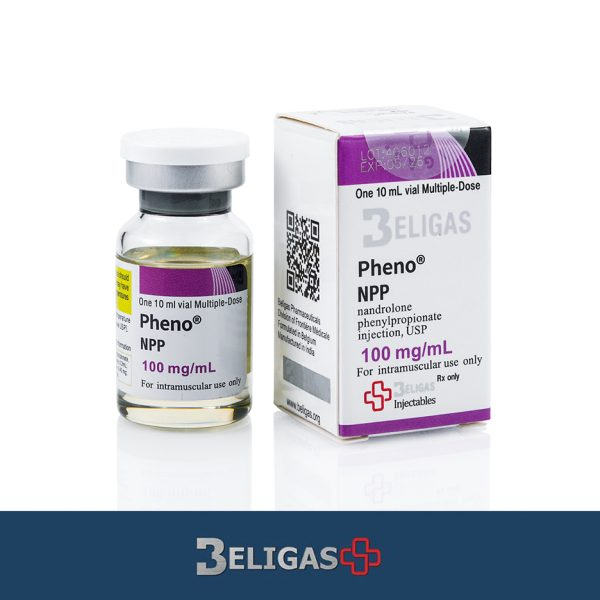
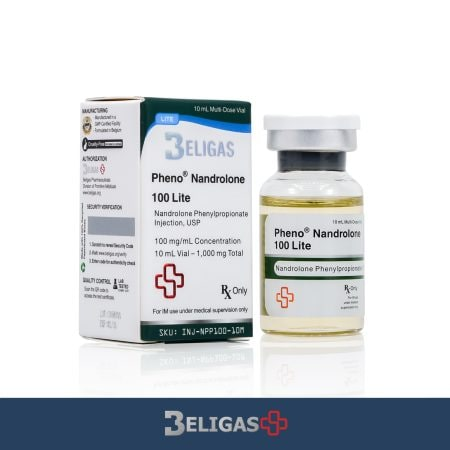
Replace 12 Beligas product photos with updated vial/box shots
Swap in new product photography for 12 Beligas injectables, verified
against the label on each box rather than the source filename.

Standardise the set on .jpg. testc200mg, testp100mg and teste300mg were
PNGs at 350-370KB each and are now ~21KB; their 28 references across
products.html, script.js and the p/ pages (including og:image meta) are
updated and the old PNGs deleted. Two source images were 2000x2000 and
were downscaled to the 600x600 site standard.

Verified: 195/195 tests pass, all 188 image references across the site
resolve, and all 12 load at the correct dimensions on products.html and
their product pages.

Changed region(s): [[0.1556, 0.1867, 0.84, 0.8089], [0.0, 0.84, 1.0, 0.9956]]

diff --git a/products.html b/products.html
@@ -938,7 +938,7 @@
       "item": {
         "@type": "Product",
         "name": "Testosterone Cypionate, 200mg",
-        "image": "https://godmusclegears.com/images/testc200mg.png",
+        "image": "https://godmusclegears.com/images/testc200mg.jpg",
         "brand": {
           "@type": "Brand",
           "name": "Beligas"
@@ -991,7 +991,7 @@
       "item": {
         "@type": "Product",
         "name": "Testosterone Enanthate, 300mg",
-        "image": "https://godmusclegears.com/images/teste300mg.png",
+        "image": "https://godmusclegears.com/images/teste300mg.jpg",
         "brand": {
           "@type": "Brand",
           "name": "Beligas"
@@ -1097,7 +1097,7 @@
       "item": {
         "@type": "Product",
         "name": "Testosterone Propionate, 100mg",
-        "image": "https://godmusclegears.com/images/testp100mg.png",
+        "image": "https://godmusclegears.com/images/testp100mg.jpg",
         "brand": {
           "@type": "Brand",
           "name": "Beligas"
@@ -7407,7 +7407,7 @@
 </div>
 <div class="col-6 col-md-4 mb-2">
 <div class="card" data-brand="Beligas" data-type="Injectable">
-<img alt="Testosterone Cypionate 200mg" class="card-img-top" src="images/testc200mg.png"/>
+<img alt="Testosterone Cypionate 200mg" class="card-img-top" src="images/testc200mg.jpg"/>
 <div class="card-body">
 <h5 class="card-title">Testosterone Cypionate, 200mg</h5>
 <p class="card-text">Buy Testosterone Cypionate 200mg online. Beligas Pharma 200mg/mL. Best-selling long-acting testosterone for TRT and bulking cycles. Ships to USA.</p>
@@ -7415,13 +7415,13 @@
 <span class="fw-bold">$62.10</span>
 <button type="button" class="share-btn" data-share-url="https://godmusclegears.com/p/testc200mg.html" data-share-title="Testosterone Cypionate, 200mg" aria-label="Share Testosterone Cypionate, 200mg" title="Copy link"><svg width="18" height="18" viewBox="0 0 24 24" fill="none" stroke="currentColor" stroke-width="2" stroke-linecap="round" stroke-linejoin="round" aria-hidden="true" focusable="false"><path d="M10 13a5 5 0 0 0 7.54.54l3-3a5 5 0 0 0-7.07-7.07l-1.72 1.71"/><path d="M14 11a5 5 0 0 0-7.54-.54l-3 3a5 5 0 0 0 7.07 7.07l1.71-1.71"/></svg></button>
 </div>
-<button class="add-to-cart" data-id="testc200mg" data-image="images/testc200mg.png" data-name="Testosterone Cypionate, 200mg (1 vial)" data-price="62.10">Add to Cart</button>
+<button class="add-to-cart" data-id="testc200mg" data-image="images/testc200mg.jpg" data-name="Testosterone Cypionate, 200mg (1 vial)" data-price="62.10">Add to Cart</button>
 </div>
 </div>
 </div>
 <div class="col-6 col-md-4 mb-2">
 <div class="card" data-brand="Beligas" data-type="Injectable">
-<img alt="Testosterone Enanthate 300mg" class="card-img-top" src="images/teste300mg.png"/>
+<img alt="Testosterone Enanthate 300mg" class="card-img-top" src="images/teste300mg.jpg"/>
 <div class="card-body">
 <h5 class="card-title">Testosterone Enanthate, 300mg</h5>
 <p class="card-text">Buy Testosterone Enanthate 300mg online. Beligas Pharma 300mg/mL, MCT oil. Most popular test ester for bulking and TRT. Fast USA shipping.</p>
@@ -7429,7 +7429,7 @@
 <span class="fw-bold">$65.55</span>
 <button type="button" class="share-btn" data-share-url="https://godmusclegears.com/p/teste300mg.html" data-share-title="Testosterone Enanthate, 300mg" aria-label="Share Testosterone Enanthate, 300mg" title="Copy link"><svg width="18" height="18" viewBox="0 0 24 24" fill="none" stroke="currentColor" stroke-width="2" stroke-linecap="round" stroke-linejoin="round" aria-hidden="true" focusable="false"><path d="M10 13a5 5 0 0 0 7.54.54l3-3a5 5 0 0 0-7.07-7.07l-1.72 1.71"/><path d="M14 11a5 5 0 0 0-7.54-.54l-3 3a5 5 0 0 0 7.07 7.07l1.71-1.71"/></svg></button>
 </div>
-<button class="add-to-cart" data-id="teste300mg" data-image="images/teste300mg.png" data-name="Testosterone Enanthate, 300mg (1 vial)" data-price="65.55">Add to Cart</button>
+<button class="add-to-cart" data-id="teste300mg" data-image="images/teste300mg.jpg" data-name="Testosterone Enanthate, 300mg (1 vial)" data-price="65.55">Add to Cart</button>
 </div>
 </div>
 </div>
@@ -7449,7 +7449,7 @@
 </div>
 <div class="col-6 col-md-4 mb-2">
 <div class="card" data-brand="Beligas" data-type="Injectable">
-<img alt="Testosterone Propionate 100mg" class="card-img-top" src="images/testp100mg.png"/>
+<img alt="Testosterone Propionate 100mg" class="card-img-top" src="images/testp100mg.jpg"/>
 <div class="card-body">
 <h5 class="card-title">Testosterone Propionate, 100mg</h5>
 <p class="card-text">Buy Testosterone Propionate 100mg online. Beligas Pharma 100mg/mL MCT oil. Fast-acting testosterone ester for cutting and lean gains. Ships to USA.</p>
@@ -7457,7 +7457,7 @@
 <span class="fw-bold">$48.30</span>
 <button type="button" class="share-btn" data-share-url="https://godmusclegears.com/p/testp100mg.html" data-share-title="Testosterone Propionate, 100mg" aria-label="Share Testosterone Propionate, 100mg" title="Copy link"><svg width="18" height="18" viewBox="0 0 24 24" fill="none" stroke="currentColor" stroke-width="2" stroke-linecap="round" stroke-linejoin="round" aria-hidden="true" focusable="false"><path d="M10 13a5 5 0 0 0 7.54.54l3-3a5 5 0 0 0-7.07-7.07l-1.72 1.71"/><path d="M14 11a5 5 0 0 0-7.54-.54l-3 3a5 5 0 0 0 7.07 7.07l1.71-1.71"/></svg></button>
 </div>
-<button class="add-to-cart" data-id="testp100mg" data-image="images/testp100mg.png" data-name="Testosterone Propionate, 100mg (1 vial)" data-price="48.30">Add to Cart</button>
+<button class="add-to-cart" data-id="testp100mg" data-image="images/testp100mg.jpg" data-name="Testosterone Propionate, 100mg (1 vial)" data-price="48.30">Add to Cart</button>
 </div>
 </div>
 </div>

diff --git a/p/testp100mg.html b/p/testp100mg.html
@@ -11,13 +11,13 @@
 <meta property="og:site_name" content="GOD MUSCLE GEARS"/>
 <meta property="og:title" content="Testosterone Propionate, 100mg — Beligas"/>
 <meta property="og:description" content="Buy Testosterone Propionate 100mg online. Beligas Pharma 100mg/mL MCT oil. Fast-acting testosterone ester for cutting and lean gains. Ships to USA."/>
-<meta property="og:image" content="https://godmusclegears.com/images/testp100mg.png"/>
+<meta property="og:image" content="https://godmusclegears.com/images/testp100mg.jpg"/>
 <meta property="og:image:alt" content="Testosterone Propionate, 100mg"/>
 <meta property="og:url" content="https://godmusclegears.com/p/testp100mg.html"/>
 <meta name="twitter:card" content="summary_large_image"/>
 <meta name="twitter:title" content="Testosterone Propionate, 100mg — Beligas"/>
 <meta name="twitter:description" content="Buy Testosterone Propionate 100mg online. Beligas Pharma 100mg/mL MCT oil. Fast-acting testosterone ester for cutting and lean gains. Ships to USA."/>
-<meta name="twitter:image" content="https://godmusclegears.com/images/testp100mg.png"/>
+<meta name="twitter:image" content="https://godmusclegears.com/images/testp100mg.jpg"/>
 <link href="https://cdn.jsdelivr.net/npm/bootstrap@5.3.0/dist/css/bootstrap.min.css" rel="stylesheet"/>
 <link href="/style.css" rel="stylesheet"/>
 <link href="/images/logo.png" rel="icon" type="image/png"/>
@@ -40,7 +40,7 @@
   "@type": "Product",
   "name": "Testosterone Propionate, 100mg",
   "description": "Buy Testosterone Propionate 100mg online. Beligas Pharma 100mg/mL MCT oil. Fast-acting testosterone ester for cutting and lean gains. Ships to USA.",
-  "image": "https://godmusclegears.com/images/testp100mg.png",
+  "image": "https://godmusclegears.com/images/testp100mg.jpg",
   "brand": {
     "@type": "Brand",
     "name": "Beligas"
@@ -94,7 +94,7 @@
 <div class="row g-4">
 <div class="col-12 col-md-6">
 <div class="card" data-brand="Beligas" data-type="Injectable">
-<img alt="Testosterone Propionate, 100mg" class="card-img-top" src="/images/testp100mg.png"/>
+<img alt="Testosterone Propionate, 100mg" class="card-img-top" src="/images/testp100mg.jpg"/>
 <div class="card-body">
 <h1 class="card-title h3">Testosterone Propionate, 100mg</h1>
 <p class="card-text">Buy Testosterone Propionate 100mg online. Beligas Pharma 100mg/mL MCT oil. Fast-acting testosterone ester for cutting and lean gains. Ships to USA.</p>
@@ -102,7 +102,7 @@
 <span class="fw-bold" data-price-for="testp100mg">$48.30</span>
 <button type="button" class="share-btn" data-share-url="https://godmusclegears.com/p/testp100mg.html" data-share-title="Testosterone Propionate, 100mg" aria-label="Share Testosterone Propionate, 100mg" title="Copy link"><svg width="18" height="18" viewBox="0 0 24 24" fill="none" stroke="currentColor" stroke-width="2" stroke-linecap="round" stroke-linejoin="round" aria-hidden="true" focusable="false"><path d="M10 13a5 5 0 0 0 7.54.54l3-3a5 5 0 0 0-7.07-7.07l-1.72 1.71"/><path d="M14 11a5 5 0 0 0-7.54-.54l-3 3a5 5 0 0 0 7.07 7.07l1.71-1.71"/></svg></button>
 </div>
-<button class="add-to-cart" data-id="testp100mg" data-image="images/testp100mg.png" data-name="Testosterone Propionate, 100mg (1 vial)" data-price="48.30">Add to Cart</button>
+<button class="add-to-cart" data-id="testp100mg" data-image="images/testp100mg.jpg" data-name="Testosterone Propionate, 100mg (1 vial)" data-price="48.30">Add to Cart</button>
 </div>
 </div>
 </div>

diff --git a/p/testc200mg.html b/p/testc200mg.html
@@ -11,13 +11,13 @@
 <meta property="og:site_name" content="GOD MUSCLE GEARS"/>
 <meta property="og:title" content="Testosterone Cypionate, 200mg — Beligas"/>
 <meta property="og:description" content="Buy Testosterone Cypionate 200mg online. Beligas Pharma 200mg/mL. Best-selling long-acting testosterone for TRT and bulking cycles. Ships to USA."/>
-<meta property="og:image" content="https://godmusclegears.com/images/testc200mg.png"/>
+<meta property="og:image" content="https://godmusclegears.com/images/testc200mg.jpg"/>
 <meta property="og:image:alt" content="Testosterone Cypionate, 200mg"/>
 <meta property="og:url" content="https://godmusclegears.com/p/testc200mg.html"/>
 <meta name="twitter:card" content="summary_large_image"/>
 <meta name="twitter:title" content="Testosterone Cypionate, 200mg — Beligas"/>
 <meta name="twitter:description" content="Buy Testosterone Cypionate 200mg online. Beligas Pharma 200mg/mL. Best-selling long-acting testosterone for TRT and bulking cycles. Ships to USA."/>
-<meta name="twitter:image" content="https://godmusclegears.com/images/testc200mg.png"/>
+<meta name="twitter:image" content="https://godmusclegears.com/images/testc200mg.jpg"/>
 <link href="https://cdn.jsdelivr.net/npm/bootstrap@5.3.0/dist/css/bootstrap.min.css" rel="stylesheet"/>
 <link href="/style.css" rel="stylesheet"/>
 <link href="/images/logo.png" rel="icon" type="image/png"/>
@@ -40,7 +40,7 @@
   "@type": "Product",
   "name": "Testosterone Cypionate, 200mg",
   "description": "Buy Testosterone Cypionate 200mg online. Beligas Pharma 200mg/mL. Best-selling long-acting testosterone for TRT and bulking cycles. Ships to USA.",
-  "image": "https://godmusclegears.com/images/testc200mg.png",
+  "image": "https://godmusclegears.com/images/testc200mg.jpg",
   "brand": {
     "@type": "Brand",
     "name": "Beligas"
@@ -94,7 +94,7 @@
 <div class="row g-4">
 <div class="col-12 col-md-6">
 <div class="card" data-brand="Beligas" data-type="Injectable">
-<img alt="Testosterone Cypionate, 200mg" class="card-img-top" src="/images/testc200mg.png"/>
+<img alt="Testosterone Cypionate, 200mg" class="card-img-top" src="/images/testc200mg.jpg"/>
 <div class="card-body">
 <h1 class="card-title h3">Testosterone Cypionate, 200mg</h1>
 <p class="card-text">Buy Testosterone Cypionate 200mg online. Beligas Pharma 200mg/mL. Best-selling long-acting testosterone for TRT and bulking cycles. Ships to USA.</p>
@@ -102,7 +102,7 @@
 <span class="fw-bold" data-price-for="testc200mg">$62.10</span>
 <button type="button" class="share-btn" data-share-url="https://godmusclegears.com/p/testc200mg.html" data-share-title="Testosterone Cypionate, 200mg" aria-label="Share Testosterone Cypionate, 200mg" title="Copy link"><svg width="18" height="18" viewBox="0 0 24 24" fill="none" stroke="currentColor" stroke-width="2" stroke-linecap="round" stroke-linejoin="round" aria-hidden="true" focusable="false"><path d="M10 13a5 5 0 0 0 7.54.54l3-3a5 5 0 0 0-7.07-7.07l-1.72 1.71"/><path d="M14 11a5 5 0 0 0-7.54-.54l-3 3a5 5 0 0 0 7.07 7.07l1.71-1.71"/></svg></button>
 </div>
-<button class="add-to-cart" data-id="testc200mg" data-image="images/testc200mg.png" data-name="Testosterone Cypionate, 200mg (1 vial)" data-price="62.10">Add to Cart</button>
+<button class="add-to-cart" data-id="testc200mg" data-image="images/testc200mg.jpg" data-name="Testosterone Cypionate, 200mg (1 vial)" data-price="62.10">Add to Cart</button>
 </div>
 </div>
 </div>

diff --git a/p/teste300mg.html b/p/teste300mg.html
@@ -11,13 +11,13 @@
 <meta property="og:site_name" content="GOD MUSCLE GEARS"/>
 <meta property="og:title" content="Testosterone Enanthate, 300mg — Beligas"/>
 <meta property="og:description" content="Buy Testosterone Enanthate 300mg online. Beligas Pharma 300mg/mL, MCT oil. Most popular test ester for bulking and TRT. Fast USA shipping."/>
-<meta property="og:image" content="https://godmusclegears.com/images/teste300mg.png"/>
+<meta property="og:image" content="https://godmusclegears.com/images/teste300mg.jpg"/>
 <meta property="og:image:alt" content="Testosterone Enanthate, 300mg"/>
 <meta property="og:url" content="https://godmusclegears.com/p/teste300mg.html"/>
 <meta name="twitter:card" content="summary_large_image"/>
 <meta name="twitter:title" content="Testosterone Enanthate, 300mg — Beligas"/>
 <meta name="twitter:description" content="Buy Testosterone Enanthate 300mg online. Beligas Pharma 300mg/mL, MCT oil. Most popular test ester for bulking and TRT. Fast USA shipping."/>
-<meta name="twitter:image" content="https://godmusclegears.com/images/teste300mg.png"/>
+<meta name="twitter:image" content="https://godmusclegears.com/images/teste300mg.jpg"/>
 <link href="https://cdn.jsdelivr.net/npm/bootstrap@5.3.0/dist/css/bootstrap.min.css" rel="stylesheet"/>
 <link href="/style.css" rel="stylesheet"/>
 <link href="/images/logo.png" rel="icon" type="image/png"/>
@@ -40,7 +40,7 @@
   "@type": "Product",
   "name": "Testosterone Enanthate, 300mg",
   "description": "Buy Testosterone Enanthate 300mg online. Beligas Pharma 300mg/mL, MCT oil. Most popular test ester for bulking and TRT. Fast USA shipping.",
-  "image": "https://godmusclegears.com/images/teste300mg.png",
+  "image": "https://godmusclegears.com/images/teste300mg.jpg",
   "brand": {
     "@type": "Brand",
     "name": "Beligas"
@@ -94,7 +94,7 @@
 <div class="row g-4">
 <div class="col-12 col-md-6">
 <div class="card" data-brand="Beligas" data-type="Injectable">
-<img alt="Testosterone Enanthate, 300mg" class="card-img-top" src="/images/teste300mg.png"/>
+<img alt="Testosterone Enanthate, 300mg" class="card-img-top" src="/images/teste300mg.jpg"/>
 <div class="card-body">
 <h1 class="card-title h3">Testosterone Enanthate, 300mg</h1>
 <p class="card-text">Buy Testosterone Enanthate 300mg online. Beligas Pharma 300mg/mL, MCT oil. Most popular test ester for bulking and TRT. Fast USA shipping.</p>
@@ -102,7 +102,7 @@
 <span class="fw-bold" data-price-for="teste300mg">$65.55</span>
 <button type="button" class="share-btn" data-share-url="https://godmusclegears.com/p/teste300mg.html" data-share-title="Testosterone Enanthate, 300mg" aria-label="Share Testosterone Enanthate, 300mg" title="Copy link"><svg width="18" height="18" viewBox="0 0 24 24" fill="none" stroke="currentColor" stroke-width="2" stroke-linecap="round" stroke-linejoin="round" aria-hidden="true" focusable="false"><path d="M10 13a5 5 0 0 0 7.54.54l3-3a5 5 0 0 0-7.07-7.07l-1.72 1.71"/><path d="M14 11a5 5 0 0 0-7.54-.54l-3 3a5 5 0 0 0 7.07 7.07l1.71-1.71"/></svg></button>
 </div>
-<button class="add-to-cart" data-id="teste300mg" data-image="images/teste300mg.png" data-name="Testosterone Enanthate, 300mg (1 vial)" data-price="65.55">Add to Cart</button>
+<button class="add-to-cart" data-id="teste300mg" data-image="images/teste300mg.jpg" data-name="Testosterone Enanthate, 300mg (1 vial)" data-price="65.55">Add to Cart</button>
 </div>
 </div>
 </div>

diff --git a/script.js b/script.js
@@ -729,10 +729,10 @@ const FEATURED_CATALOG = (function () {
     ['npp100mg',                   'Npp, 100mg (1 vial)',                        58.65, 'images/npp100mg.jpg',                   'Beligas', 'Injectable'],
     ['npp150mg',                   'Npp, 150mg (1 vial)',                        75.90, 'images/npp150mg.jpg',                   'Beligas', 'Injectable'],
     ['hexotren100mg',              'Hexo Trenbolone, 100mg',                    120.75, 'images/hexotren100mg.jpg',              'Beligas', 'Injectable'],
-    ['testc200mg',                 'Testosterone Cypionate, 200mg (1 vial)',     62.10, 'images/testc200mg.png',                 'Beligas', 'Injectable'],
-    ['teste300mg',                 'Testosterone Enanthate, 300mg (1 vial)',     65.55, 'images/teste300mg.png',                 'Beligas', 'Injectable'],
+    ['testc200mg',                 'Testosterone Cypionate, 200mg (1 vial)',     62.10, 'images/testc200mg.jpg',                 'Beligas', 'Injectable'],
+    ['teste300mg',                 'Testosterone Enanthate, 300mg (1 vial)',     65.55, 'images/teste300mg.jpg',                 'Beligas', 'Injectable'],
     ['testnpp1500mg',              'Testosterone NPP Blend, 150mg (1 vial)',     86.25, 'images/testnpp1500mg.jpg',              'Beligas', 'Injectable'],
-    ['testp100mg',                 'Testosterone Propionate, 100mg (1 vial)',    48.30, 'images/testp100mg.png',                 'Beligas', 'Injectable'],
+    ['testp100mg',                 'Testosterone Propionate, 100mg (1 vial)',    48.30, 'images/testp100mg.jpg',                 'Beligas', 'Injectable'],
     ['testsuspension100mg',        'Testosterone Suspension, 100mg (1 vial)',    51.75, 'images/testsuspension100mg.jpg',        'Beligas', 'Injectable'],
     ['testtrenboldblend400mg',     'Test Tren Bold Blend, 400mg (1 vial)',      162.15, 'images/testtrenboldblend400mg.jpg',     'Beligas', 'Injectable'],
     ['testtrenlong300mg',          'Test Tren Long, 300mg (1 vial)',            138.00, 'images/testtrenlong300mg.jpg',          'Beligas', 'Injectable'],
@@ -1221,7 +1221,7 @@ function initPromoCode() {
     id: 'free-testc200mg',
     name: 'Testosterone Cypionate, 200mg (1 vial)',
     price: 0.00,
-    image: 'images/testc200mg.png',
+    image: 'images/testc200mg.jpg',
     quantity: 1,
     brand: 'Beligas'
   };
